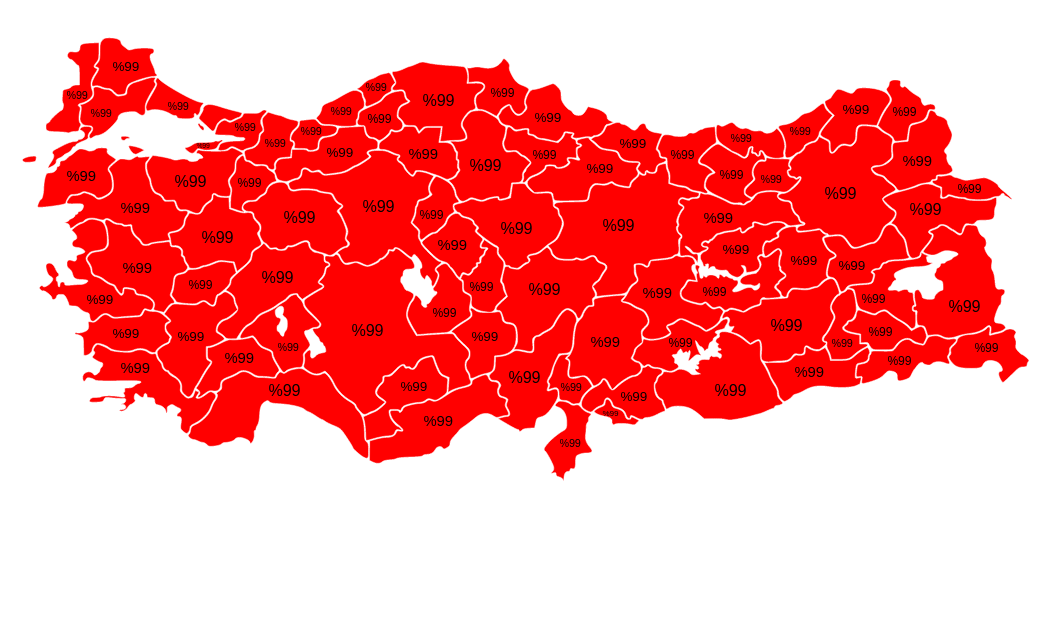
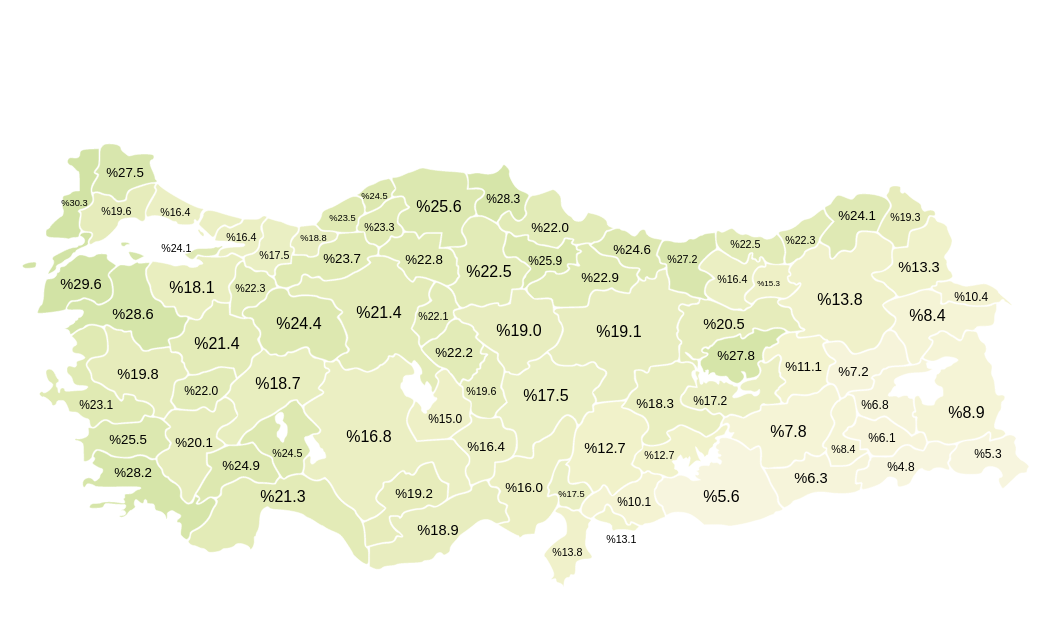
Colorize map

diff --git a/scrape.js b/scrape.js
@@ -1,9 +1,6 @@
 const puppeteer = require("puppeteer");
 const { turkishToAsciiChar } = require("./utils");
 const coordinates = require("./coordinates.json");
-const cityNames = require("./cityNames").map((city) =>
-  turkishToAsciiChar(city).toLowerCase()
-);
 
 const URL = "https://covid19asi.saglik.gov.tr/";
 
@@ -19,10 +16,14 @@ module.exports.scrapeStats = async () => {
   console.log("Going to the URL");
   await page.goto(URL, { waitUntil: "domcontentloaded" });
   console.log("Loaded page");
-  const stats = await page.$$eval("#color1", (elements) => {
-    return elements.map((element) => {
-      return {
-        cityName: element.getAttribute("data-adi"),
+  const vaccinationStats = await page.$$eval("#color1", (elements) => {
+    const vaccinationStatsObj = {};
+    elements.forEach((element) => {
+      const cityName =
+        element.getAttribute("data-adi") === "Afyon"
+          ? "Afyonkarahisar"
+          : element.getAttribute("data-adi");
+      vaccinationStatsObj[cityName] = {
         firstDose: parseInt(
           element.getAttribute("data-birinci-doz").replace(/\./g, "")
         ),
@@ -31,13 +32,14 @@ module.exports.scrapeStats = async () => {
         ),
       };
     });
+    return vaccinationStatsObj;
   });
   browser.close();
-  return stats;
+  return vaccinationStats;
 };
 
 // render the map with color and percentages
-module.exports.render = async (stats) => {
+module.exports.render = async (vaccinationPercentages, secondDose) => {
   const browser = await puppeteer.launch({ headless: false });
   // const browser = await puppeteer.launch({ headless: true });
 
@@ -49,18 +51,34 @@ module.exports.render = async (stats) => {
     waitUntil: "domcontentloaded",
   });
 
-  for (cityName of cityNames) {
+  // let i = 1.2; // debug instead of vaccinationPercentageFloat
+  for (cityName in vaccinationPercentages) {
+    const percentage = secondDose
+      ? vaccinationPercentages[cityName].secondDose
+      : vaccinationPercentages[cityName].firstDose;
+    const asciiName = turkishToAsciiChar(cityName).toLowerCase();
     console.log(cityName);
+    console.log(percentage);
+    const vaccinationRate = (percentage / 100).toFixed(2);
+    const vaccinationPercentageFloat = parseFloat(percentage);
+    const hue = `${(50 + vaccinationPercentageFloat * 0.9).toFixed(0)}`;
+    const saturation = `${(65 - vaccinationPercentageFloat * 0.4).toFixed(0)}%`;
+    const light = `${(95 - vaccinationPercentageFloat * 0.6).toFixed(0)}%`;
+    // console.log(i);
+    console.log("Hue: " + hue);
+    console.log("Sat: " + saturation);
+    console.log("Light: " + light);
     await fillCityColorAndText(
-      cityName,
-      "red",
+      asciiName,
+      `hsl(${hue}, ${saturation}, ${light}, 1)`,
       page,
-      coordinates[cityName],
-      99
+      coordinates[asciiName],
+      percentage
     );
+    // i += 1.2;
   }
 
-  const element = await page.$("#map");
+  const element = await page.$("svg");
 
   if (element) {
     await element.screenshot({

diff --git a/index.js b/index.js
@@ -9,9 +9,32 @@ const sumTotalFirstDose = (stats) => {
 };
 
 (async function main() {
-  // const stats = await scrapeStats();
-  // console.log(stats);
+  const vaccinationStats = await scrapeStats();
+  const vaccinationPercentages = calculateVaccinationPercentages(
+    vaccinationStats,
+    nufus
+  );
   // console.log(sumTotalFirstDose(stats));
-  await render();
+  await render(vaccinationPercentages, false);
+  // cityNames.forEach((cityName) =>
+  //   console.log(`${cityName}: ${nufus[cityName]}`)
+  // );
   // process.exit();
 })();
+
+const calculateVaccinationPercentages = (vaccinationStats, nufus) => {
+  const vaccinationPercentages = {};
+  for (city in vaccinationStats) {
+    vaccinationPercentages[city] = {
+      firstDose: (
+        (vaccinationStats[city].firstDose / nufus[city]) *
+        100
+      ).toFixed(1),
+      secondDose: (
+        (vaccinationStats[city].secondDose * 100) /
+        nufus[city]
+      ).toFixed(1),
+    };
+  }
+  return vaccinationPercentages;
+};
